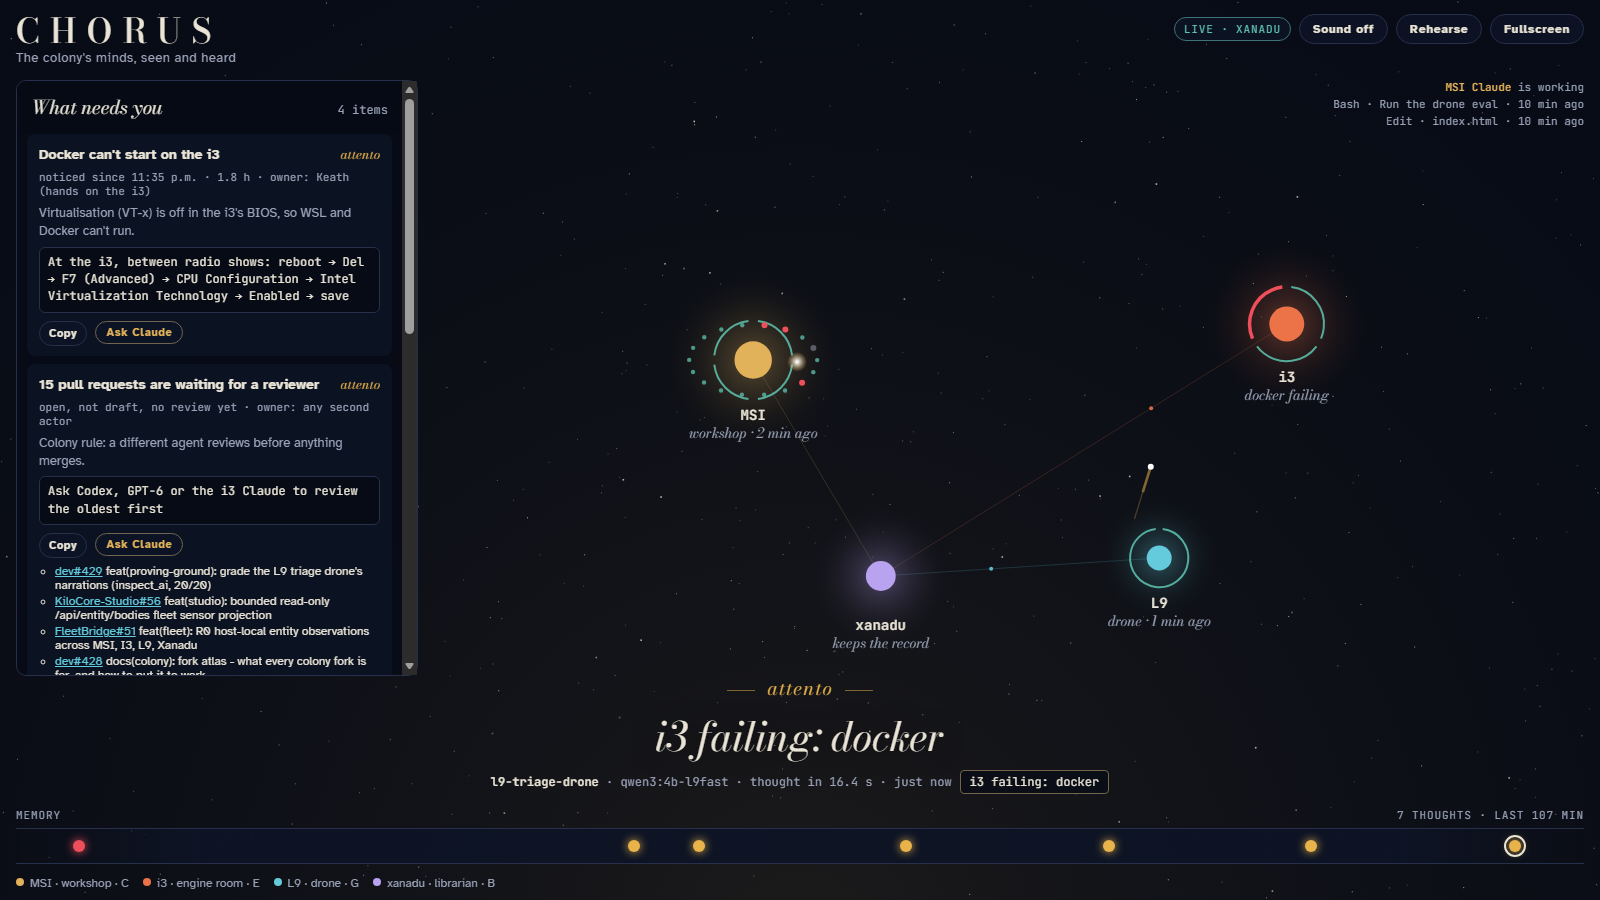
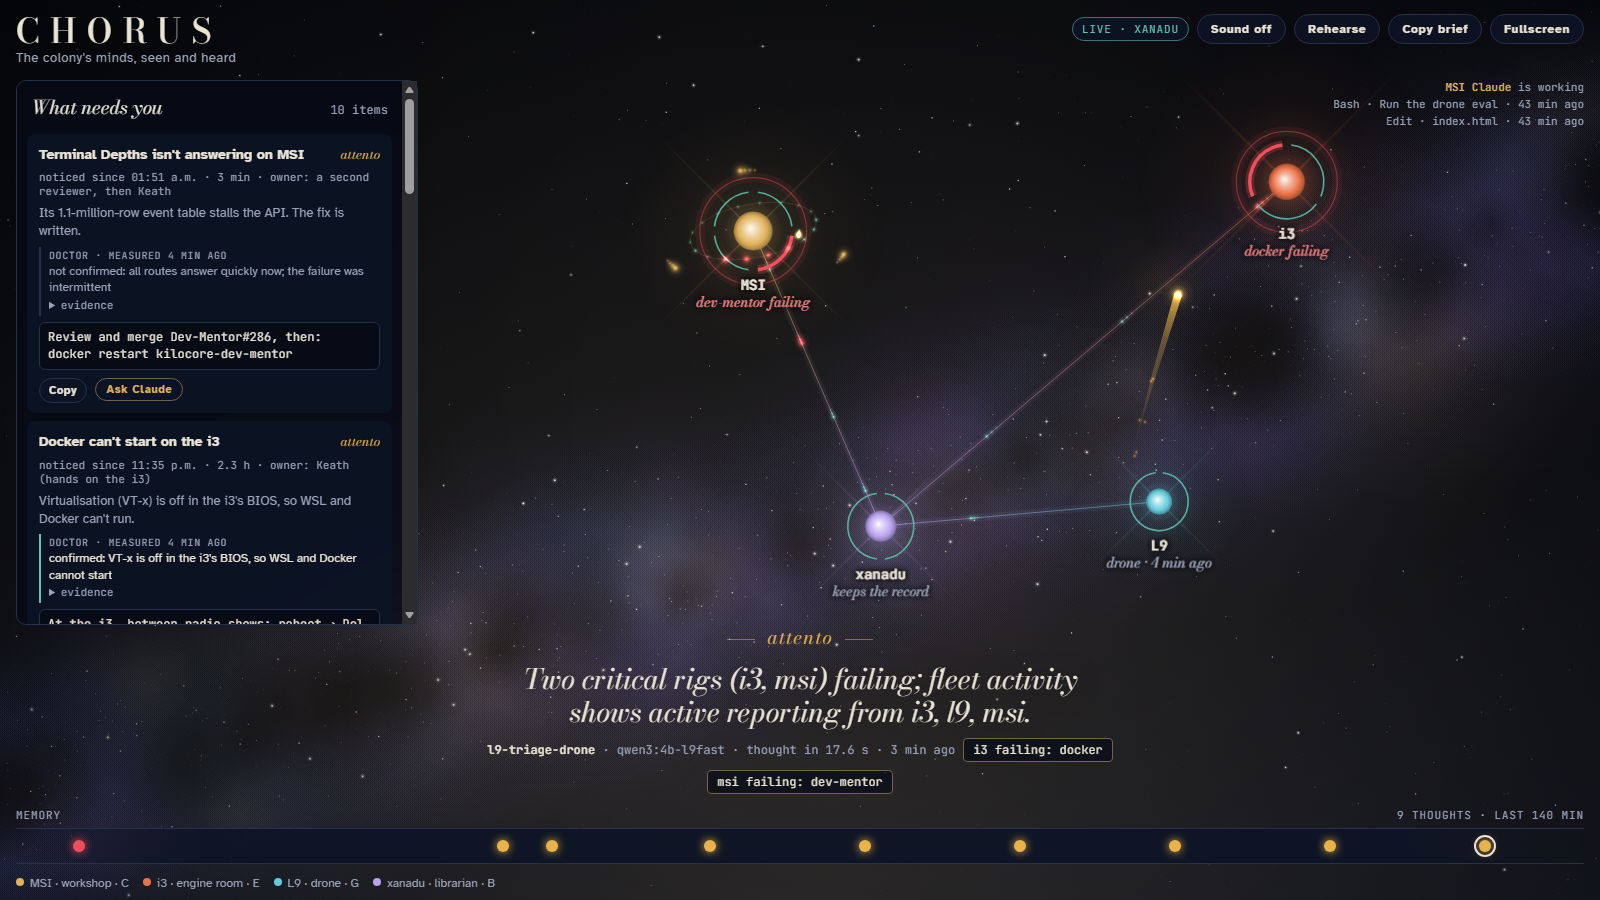
feat(chorus): fading comet tails, README maps every mark in the sky to its data, fresh receipts

diff --git a/chorus/index.html b/chorus/index.html
@@ -648,9 +648,12 @@ function drawComet(c, t) {
   const tr = c.trail, n = tr.length / 2;
   if (n > 2) {
     // tapered tail: a ribbon whose half-width grows from 0 at the end to 5 px at the head
-    cx.fillStyle = hexA(c.c, 0.55); cx.beginPath();
-    for (let i = 0; i < n; i++) { const [nx, ny] = normal(tr, i), w = 5 * i / (n - 1); cx.lineTo(tr[2 * i] + nx * w, tr[2 * i + 1] + ny * w); }
-    for (let i = n - 1; i >= 0; i--) { const [nx, ny] = normal(tr, i), w = 5 * i / (n - 1); cx.lineTo(tr[2 * i] - nx * w, tr[2 * i + 1] - ny * w); }
+    // the tail fades from the head back to nothing (a gradient only while a comet is in flight)
+    const tg = cx.createLinearGradient(tr[0], tr[1], tr[2 * n - 2], tr[2 * n - 1]);
+    tg.addColorStop(0, hexA(c.c, 0)); tg.addColorStop(0.7, hexA(c.c, 0.35)); tg.addColorStop(1, hexA(c.c, 0.85));
+    cx.fillStyle = tg; cx.beginPath();
+    for (let i = 0; i < n; i++) { const [nx, ny] = normal(tr, i), w = 4 * Math.pow(i / (n - 1), 1.6); cx.lineTo(tr[2 * i] + nx * w, tr[2 * i + 1] + ny * w); }
+    for (let i = n - 1; i >= 0; i--) { const [nx, ny] = normal(tr, i), w = 4 * Math.pow(i / (n - 1), 1.6); cx.lineTo(tr[2 * i] - nx * w, tr[2 * i + 1] - ny * w); }
     cx.fill();
     for (let i = 0; i < n; i += 3) { cx.globalAlpha = 0.5 * i / n; blit(c.img, tr[2 * i], tr[2 * i + 1], 6 + 14 * i / n); }
     cx.globalAlpha = 1;

diff --git a/chorus/README.md b/chorus/README.md
@@ -43,9 +43,14 @@ CHORUS is also where you talk to the colony, and where the MSI Claude shows its 
 `hooks/claude_activity.py` (a PostToolUse hook) records only the tool name and a short label: a command's *description*, a file's name, a search's first 40 characters, an agent's description. It never records command text, file contents or output, stays on MSI (`%LOCALAPPDATA%/KiloCore/chorus/`), and rotates at 512 KB. Any hook error exits 0: the cockpit can never block the work it watches.
 
 ## What you see
-- **Each star breathes** with its heartbeat. A ring of arcs around it shows its health checks: thin teal when a check is ok, thick red when it fails. A rig whose heartbeat is older than 15 minutes dims, its thread to xanadu goes dashed, and its label says *silent N min*.
-- **Threads** carry heartbeats from every rig to xanadu, which keeps the record. A small pulse travels each thread.
-- **When a Mind thinks,** a comet leaves its home rig (L9 for the triage drone, MSI for the Culture Ship, i3 for the engine-room Mind) and lands on the rig it is about, with a ripple.
+Every mark in the sky is data; nothing is there for decoration.
+- **Each rig is a star.** Its corona breathes with its heartbeat, and the corona's reach is the RAM the rig has free (a starved rig's light shrinks). A ring of arcs shows its health checks: thin teal when ok, thick red when failing, and a failing check sends out a **red shockwave** every couple of seconds. A rig silent for over 15 minutes goes dark, its thread turns dashed and its label says *silent N min*.
+- **xanadu's ring** shows the two records it keeps: the off-box backup (fresh within 36 h) and the git mirror (fresh within 26 h).
+- **Threads** are light streams from every rig to xanadu. The beads travelling each one are that rig's **health checks**, one bead per check, teal ok and red failing; they travel faster the fresher the heartbeat.
+- **The near stars are the mirrored repos,** one per repo the off-GitHub mirror keeps (75 tonight). They twinkle while the mirror is fresh, go dull when it falls behind, and a mirror failure turns that many of them red.
+- **The galactic band takes the colour of the current marking** (teal, amber, red), and the glow rising from the horizon is the mood. In *agitato* the sky's edges red-shift and pulse.
+- **Around MSI:** the spine moons on a tilted orbit (they pass behind MSI and in front of it; dim when the spine is only *last known*); **MSI Claude** as a bright satellite whose light trail is as long as the steps it took in the last two minutes; and **claimed work** as small craft further out, one per repo someone holds on the colony claims board, sized by files claimed and tinted by who holds it (hover for the repo).
+- **When a Mind thinks,** a comet in the marking's colour leaves its home rig (L9 for the triage drone, MSI for the Culture Ship, i3 for the engine-room Mind), trailing a tapered tail and sparks, and lands on the rig it is about with a ripple.
 - **The thought is engraved bottom-centre like a score marking:**
   - *tranquillo* (routine, teal);
   - *attento* (notable, amber);
@@ -76,7 +81,7 @@ CHORUS is also where you talk to the colony, and where the MSI Claude shows its 
 - **Windowed:** an ordinary browser tab. It is never topmost and never takes the screen; fullscreen is opt-in.
 - **No actuators:** it starts, stops and changes nothing. The single write is your own message to the shared channel.
 - **Never on the i3 screen or rotation** without Keath's OK.
-- **Budget:** a single static page (no framework, Google Fonts only) drawing at most 30 fps on a 2D canvas, paused by the browser when hidden. The feeder is the Python standard library plus one SSH call per 15 s. Per-process RAM and CPU in a real browser are still to be measured on MSI.
+- **Budget:** a single static page (no framework, Google Fonts only) drawing at most 30 fps on a 2D canvas, skipped while the tab is hidden, one still frame a second with reduced motion. The backdrop (sky, band, far stars, vignette) is its own canvas, painted only on resize, DPR change or a new mood, and moved for parallax by a compositor transform; every glow is a pre-rendered sprite. `index.html?perf` draws 300 rasterised frames and puts the average and p95 frame cost in the title and console: about 2.5 ms at 1x and 6.7 ms at 2x in headless Edge (software raster), down from 5.1 ms and 23 ms (p95 49 ms) before. The feeder is the Python standard library plus one SSH call per 15 s. Per-process RAM and CPU in a real browser are still to be measured on MSI.
 
 ## Receipts
 - `receipts/chorus-fixture-1600x900.png`: desktop, rendered headless from the shared fixture.
